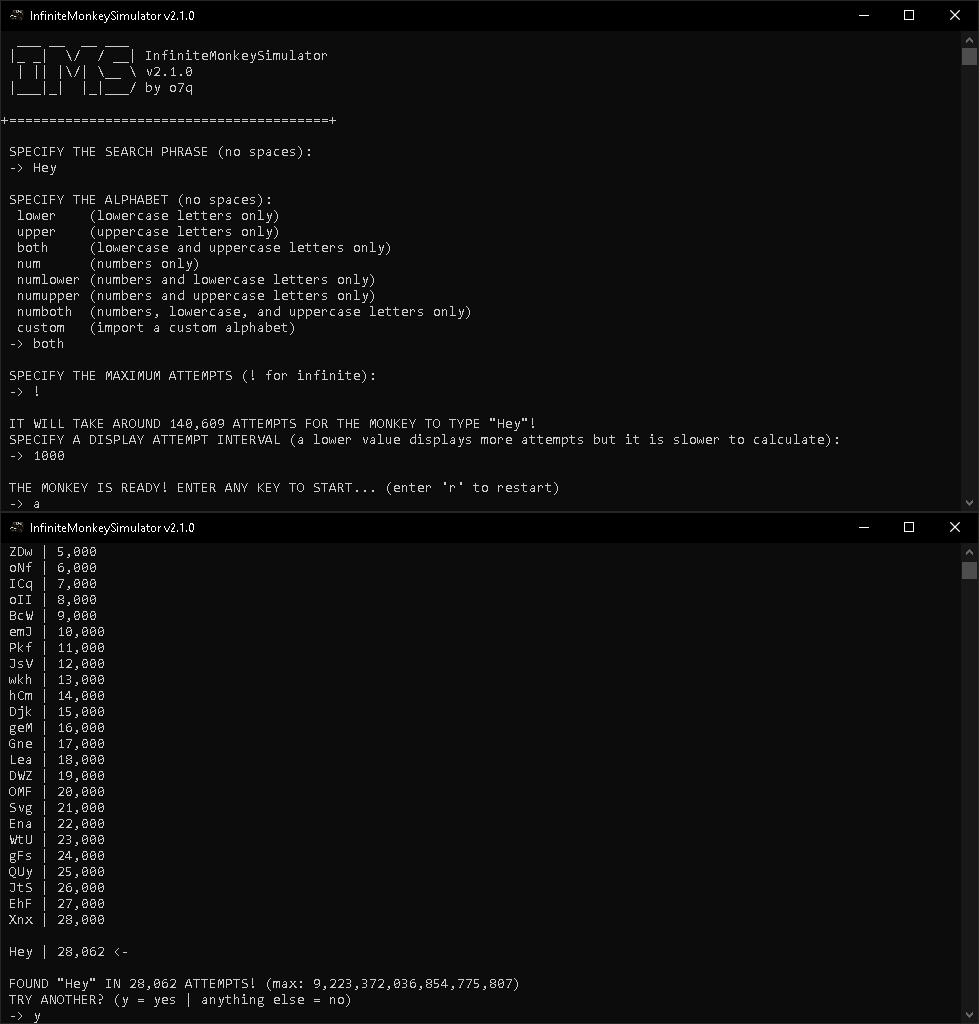
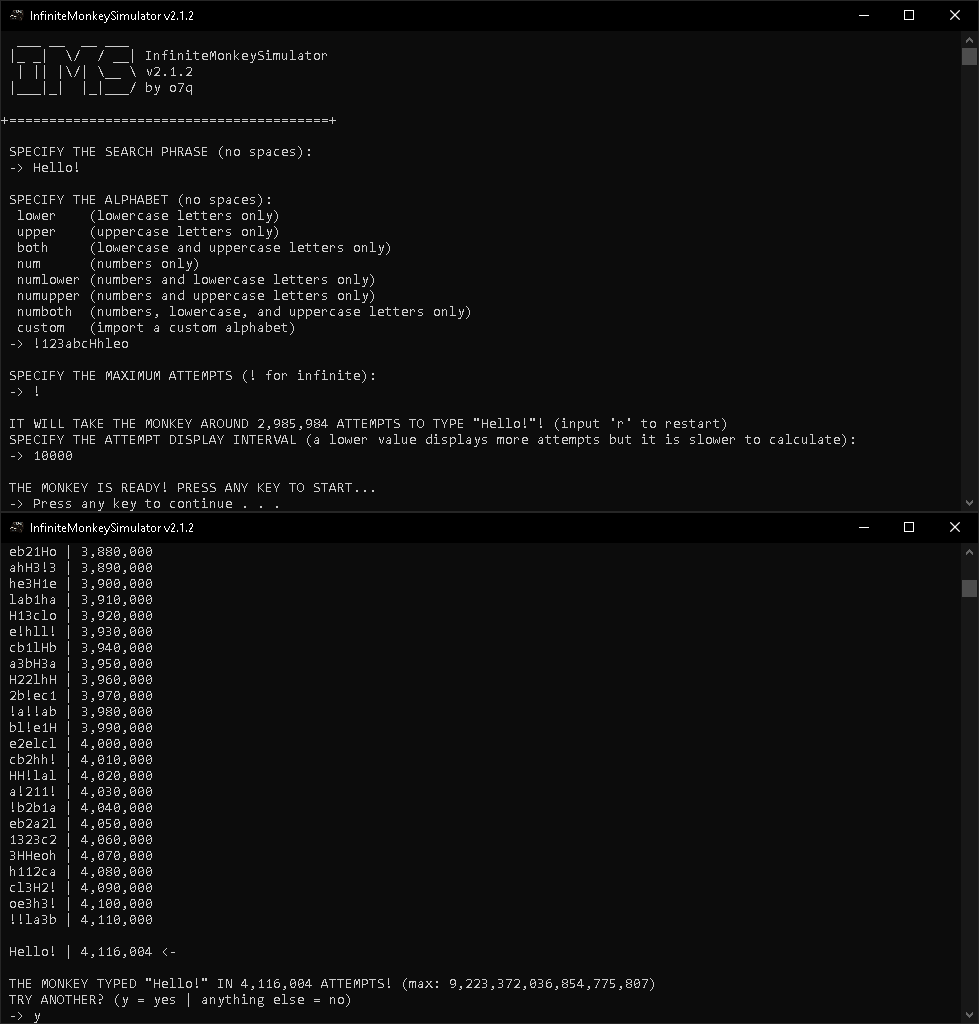
Patch Release [v2.1.2]
- Make the wording more clear
- Fix attempt calculator

diff --git a/src/InfiniteMonkeySimulator/main.cpp b/src/InfiniteMonkeySimulator/main.cpp
@@ -12,7 +12,7 @@ string strRep(string charIn, int amount);
 string formAtt(bool isFinal);
 void cc();
 
-const string ver = "v2.1.1";
+const string ver = "v2.1.2";
 string currentStr;
 long long int attempt;
 
@@ -91,7 +91,7 @@ void program()
         // compute attempts
         const int input_length = input.length();
         const int alphabet_length = alphabet.length();
-        const long long int attemptsApprox = pow(alphabet_length, input_length) + 1;
+        const long long int attemptsApprox = pow(alphabet_length, input_length);
         const string attemptsText = attempts == 1 ? "ATTEMPT" : "ATTEMPTS";
 
         // create vars
@@ -104,13 +104,15 @@ void program()
         mt19937 gen(rand());
         uniform_int_distribution<> dist(0, alphabet_length - 1);
 
-        cout << "\n IT WILL TAKE THE MONKEY AROUND " + formNum(attemptsApprox) + " ATTEMPTS TO TYPE \"" + input + "\"!\n SPECIFY THE ATTEMPT DISPLAY INTERVAL (a lower value displays more attempts but it is slower to calculate):\n -> ";
-        int dispInterval; cin >> dispInterval; cc();
+        cout << "\n IT WILL TAKE THE MONKEY AROUND " + formNum(attemptsApprox) + " ATTEMPTS TO TYPE \"" + input + "\"! (input 'r' to restart)\n SPECIFY THE ATTEMPT DISPLAY INTERVAL (a lower value displays more attempts but it is slower to calculate):\n -> ";
+        string dispInterval_str;
+        cin >> dispInterval_str; cc();
+        if (dispInterval_str == "r") program();
+        int dispInterval = stoi(dispInterval_str);
         cout << endl;
 
-        cout << " THE MONKEY IS READY! ENTER ANY KEY TO START... (enter 'r' to restart)\n -> ";
-        char r; cin >> r; cc();
-        if (r == 'r') program();
+        cout << " THE MONKEY IS READY! PRESS ANY KEY TO START...\n -> ";
+        system("pause");
         cout << endl;
 
         for (int i = 0; i < attempts; i++)

diff --git a/README.md b/README.md
@@ -2,7 +2,7 @@
 
 ###### Chimpanzee probably not typing Hamlet
 
-# [<b>>> Download Latest</b>](https://github.com/o7q/InfiniteMonkeySimulator/releases/download/v2.1.1/InfiniteMonkeySimulator.exe)
+# [<b>>> Download Latest</b>](https://github.com/o7q/InfiniteMonkeySimulator/releases/download/v2.1.2/InfiniteMonkeySimulator.exe)
 <h3>Simulate an immortal monkey typing on a typewriter.</h3>
 
 ---
@@ -33,8 +33,8 @@ I made this for fun using the <b>Mersenne Twister</b> pseudorandom number genera
     - <b>NumLower</b>Numbers and lowercase letters only
     - <b>NumUpper</b> Numbers and uppercase letters only
     - <b>NumBoth</b> Numbers, lowercase, and uppercase letters only
-    - <b>Custom</b> Input your own
-- <b>Display Output</b> Should it output the strings (greatly slows down program)
+    - <b>Custom</b> Import a custom alphabet
+- <b>Display Output</b> Should it output the strings (greatly slows down program, inputting 'r' will reset the program)
 
 ---
 
